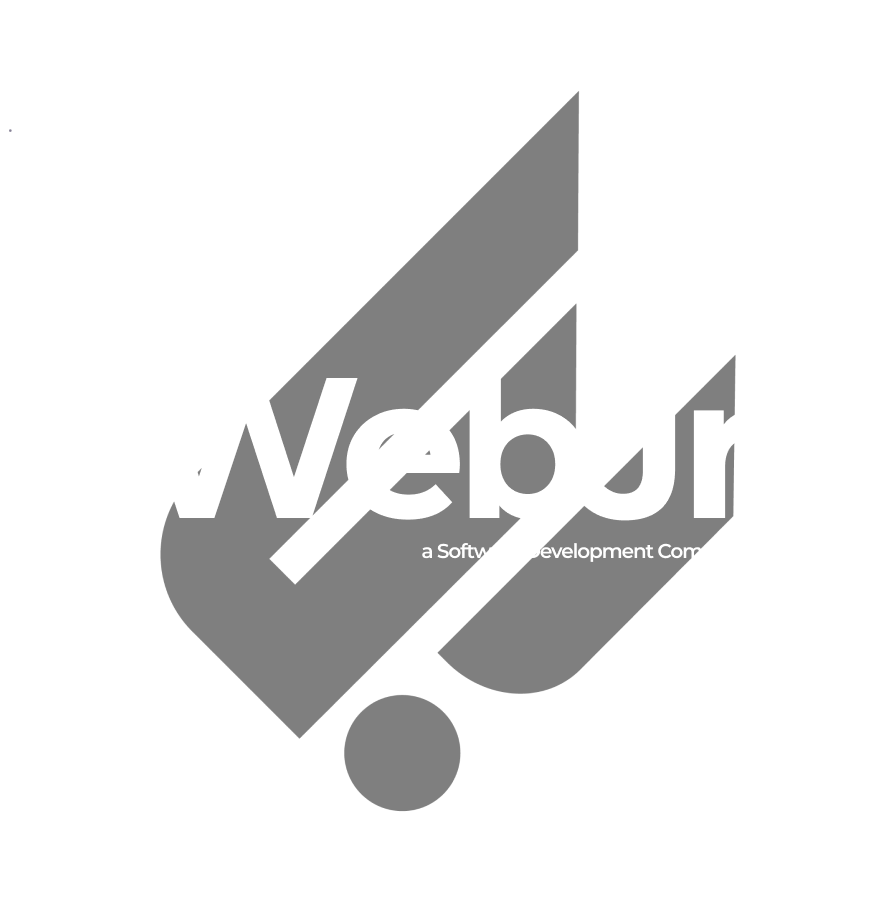
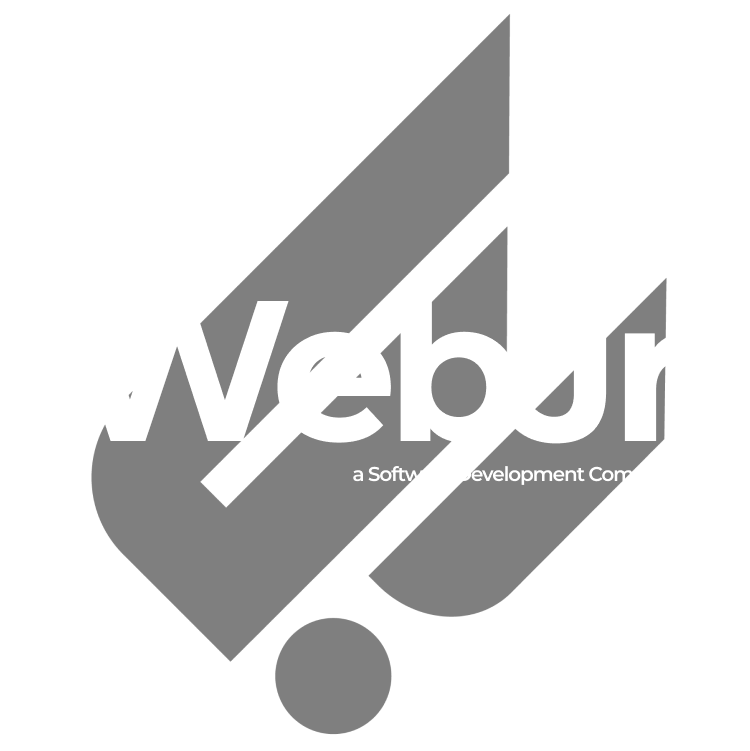
Add files via upload

diff --git a/webjr.html b/webjr.html
@@ -85,16 +85,16 @@
         <div class="">
 
           
-          <div class="loader_nav  lg:absolute lg:left-48">
-            <span>WebJr</span>
-            <span>WebJr</span>
+          <div class="loader_nav  lg:absolute lg:left-48 ">
+            <span class="lg:text-5xl text-3xl">WebJr</span>
+            <span class="lg:text-5xl text-3xl">WebJr</span>
           </div>
         
 
         </div>
 
 
-        <button data-collapse-toggle="navbar-default " type="button"
+        <button data-collapse-toggle="navbar-default" type="button"
           class="inline-flex items-center p-2 ml-3 text-sm  md:hidden text-white focus:outline-none"
           aria-controls="navbar-default" aria-expanded="false">
           <span class="sr-only">Open main menu</span>
@@ -106,50 +106,87 @@
           </svg>
         </button>
         <div class="hidden w-full text-center bg-gray-900 md:bg-transparent md:block md:w-auto" id="navbar-default">
-          <ul
-            class="flex flex-col p-4 mt-4   md:flex-row md:space-x-8 md:mt-0 md:text-sm md:font-medium md:border-0   ">
+          <ul 
+            class="flex flex-col p-4    md:flex-row md:space-x-8 md:mt-0 md:text-sm md:font-medium md:border-0   ">
             <li>
               <a href="#" class="block py-2 pr-4 pl-3 text-white rounded md:bg-transparent  md:p-0 dark:text-white"
-                aria-current="page">< Home /></a>
+                aria-current="page">< Project /></a>
             </li>
             <li>
               <a href="#"
-                class="block py-2 pr-4 pl-3 text-white md:hover:bg-transparent md:border-0 md:hover:text-blue-700 md:p-0 dark:text-gray-400 md:dark:hover:text-white dark:hover:bg-gray-700 dark:hover:text-white md:dark:hover:bg-transparent">< About /></a>
+                class="block py-2 pr-4 pl-3 text-white md:hover:bg-transparent md:border-0 md:hover:text-blue-700 md:p-0 dark:text-gray-400 md:dark:hover:text-white dark:hover:bg-gray-700 dark:hover:text-white md:dark:hover:bg-transparent">< Contact /></a>
             </li>
-            <li>
-              <a href="#"
-                class="block py-2 pr-4 pl-3 text-white md:hover:bg-transparent md:border-0 md:hover:text-blue-700 md:p-0 dark:text-gray-400 md:dark:hover:text-white dark:hover:bg-gray-700 dark:hover:text-white md:dark:hover:bg-transparent">< Services /></a>
-            </li>
-            <li>
-              <a href="#"
-                class="block py-2 pr-4 pl-3 text-white md:hover:bg-transparent md:border-0 md:hover:text-blue-700 md:p-0 dark:text-gray-400 md:dark:hover:text-white dark:hover:bg-gray-700 dark:hover:text-white md:dark:hover:bg-transparent">< Pricing /></a>
-            </li>
+            
 
           </ul>
         </div>
       </div>
     </nav>
 
-    <div class=" imgcenter relative max-w-sm sm:max-w-md md:max-w-lg lg:max-w-xl xl:max-w-2xl mx-auto mb-10">
-      <img src="static/home.png" alt="home" class="w-100 h-100">
+    <div class=" imgcenter relative flex justify-center  mb-10 ">      
+
+
+      <div class="">
+        <img src="static/home.png" alt="home" class="w-[550px] h-100">
+        <section aria-label="sidebar_icons" class="flex flex-col gap-1 absolute bottom-0  left-4 ">
+          <div class="md:w-6 w-4 ">
+            <a href="">
+              <svg viewBox="0 0 60 60" xmlns="http://www.w3.org/2000/svg"><g fill="none" fill-rule="evenodd"><path d="M30 60c16.569 0 30-13.431 30-30C60 13.431 46.569 0 30 0 13.431 0 0 13.431 0 30c0 16.569 13.431 30 30 30Z" fill="#ffffff" class="fill-000000"></path><path d="M21.883 43.823V25.524h-5.656v18.3h5.656Zm0-24.785c-.034-1.637-1.125-2.884-2.898-2.884-1.773 0-2.932 1.247-2.932 2.884 0 1.602 1.125 2.885 2.864 2.885h.034c1.807 0 2.932-1.283 2.932-2.885Zm9.227 24.785V33.397c0-.558.04-1.116.204-1.513.449-1.116 1.47-2.27 3.184-2.27 2.246 0 3.654 1.274 3.654 3.783v10.426h5.694V33.118c0-5.734-3.061-8.402-7.144-8.402-3.348 0-4.817 1.871-5.633 3.145l.04-2.447h-5.684c.082 1.752 0 18.41 0 18.41h5.685Z" fill="#000000" class="fill-ffffff"></path></g></svg>
+            </a>
+        
+          </div>
+          <div class="md:w-6 w-4">
+        
+            <a href="">
+              <svg version="1.0" viewBox="0 0 32 32" xml:space="preserve" xmlns="http://www.w3.org/2000/svg"><g fill="#ffffff" class="fill-111111"><path d="M12.914 15.272s3.027-.23 3.027-3.852c0-3.619-2.053-5.403-5.191-5.403L0 6v20h11s5.5.174 5.5-6c0 0 .404-4.728-3.586-4.728zM4 9h5.5s1.882.031 1.882 2.471C11.382 14 9.5 14 9.5 14H4V9zm6 14H4v-6h6s3 .031 3 3-2.568 3-3 3zM25 11c-7.513 0-7.5 7.5-7.5 7.5S17 26 25 26c0 0 7 0 7-6h-4s0 3-3 3c0 0-3 0-3-4h10c0-2 0-8-7-8zm-3 6s-.066-3 3-3c3.065 0 3 3 3 3h-6zM21 8h8v2h-8z"></path></g></svg>
+            </a>
+          </div>
+          <div class="md:w-6 w-4">
+            <a href="">
+              <svg xmlns="http://www.w3.org/2000/svg" viewBox="0 0 56.7 56.7" xml:space="preserve"><path d="M28.2 16.7c-7 0-12.8 5.7-12.8 12.8s5.7 12.8 12.8 12.8S41 36.5 41 29.5s-5.8-12.8-12.8-12.8zm0 21c-4.5 0-8.2-3.7-8.2-8.2s3.7-8.2 8.2-8.2 8.2 3.7 8.2 8.2-3.7 8.2-8.2 8.2z" fill="#ffffff" class="fill-000000"></path><circle cx="41.5" cy="16.4" r="2.9" fill="#ffffff" class="fill-000000"></circle><path d="M49 8.9c-2.6-2.7-6.3-4.1-10.5-4.1H17.9c-8.7 0-14.5 5.8-14.5 14.5v20.5c0 4.3 1.4 8 4.2 10.7 2.7 2.6 6.3 3.9 10.4 3.9h20.4c4.3 0 7.9-1.4 10.5-3.9 2.7-2.6 4.1-6.3 4.1-10.6V19.3c0-4.2-1.4-7.8-4-10.4zm-.4 31c0 3.1-1.1 5.6-2.9 7.3s-4.3 2.6-7.3 2.6H18c-3 0-5.5-.9-7.3-2.6C8.9 45.4 8 42.9 8 39.8V19.3c0-3 .9-5.5 2.7-7.3 1.7-1.7 4.3-2.6 7.3-2.6h20.6c3 0 5.5.9 7.3 2.7 1.7 1.8 2.7 4.3 2.7 7.2v20.6z" fill="#ffffff" class="fill-000000"></path></svg>
+            </a>
+          </div>
+        
+        </section>
+
+        <section aria-label="scroll" class="hidden  text-white text-lg tracking-widest md:flex items-center gap-6 rotate-90 absolute -right-16 bottom-20">
+          <p class="scroll_section">S c r o l l</p>
+          <div class="bg-white w-20 h-[1px]  "></div>
+
+        </section>
+
+
+      </div>
+
+
+
+
     </div>
-    <div class="mt-6">
-      <section class="grid-container mx-auto my-0 px-4 py-2 md:text-xl flex justify-between">
-        <div class="font-bold text-sm lg:text-2xl md:w-1/2 lg:w-1/2 mr-4">If you're a small business, you need a website. That's why we're here.
+    <div class="xl:mt-28 lg:mt-24 md:mt-16  mt-10">
+      <section class="grid-container mx-auto my-0 px-4 py-2 md:text-xl md:flex md:justify-between md:flex-row md:text-left md:gap-0 flex flex-col gap-8 text-center ">
+        <div class="font-bold text-sm lg:text-[25px] lg:leading-[35px] md:w-1/2 lg:w-1/2 md:mr-4">If you're a small business, you need a website. That's why we're here.
           We make it easy for small
           businesses to build their own websites and stay up-to-date on the latest mobile trends.
         </div>
-        <div class="border-b-2 w-52 lg:w-44 font-bold mx-4"></div>
-        <div class="ml-4 text-sm lg:text-xl">Create a website for your small business</div>
+        <div class=" md:block border-b-2 w-52 lg:w-44 font-bold mx-4"></div>
+        <div class="md:ml-4 text-sm lg:text-xl">Create a website for your small business</div>
       </section>
     </div>
-    <div  class="mt-36">
+    <div  class="xl:mt-28 lg:mt-24 md:mt-16 mt-10">
       <img src="static/wave.png" alt="wave">
     </div>
+
+    <div class="xl:mt-28 lg:mt-24 md:mt-16 mt-10 text-xs text-transparent">.</div>
+
+
+   
+    
+
+    
   </div>
 
   <!--  -->
-  <div class="bg-gray-900 min-h-screen flex items-center ">
+  <div class="bg-gray-900  flex items-center ">
 
       <div class="relative px-4 py-16 mx-auto sm:max-w-xl md:max-w-full lg:max-w-screen-xl md:px-24 lg:px-8 lg:py-20 flex flex-col gap-8">
         <div class="text-center">

diff --git a/style.css b/style.css
@@ -25,10 +25,10 @@
     .bgcolor {
         background-color: #121962;
         width: 100%;
-        height: 1400px;
+        
       }
       /* webjr centering */
-      /* .imgcenter {
+      /* .center {
         position: relative;
         top: -50px;
         margin: 0 auto;
@@ -116,11 +116,9 @@
   .loader_nav span {
     font-family: montserrat;
     font-weight: 500;
-    
     position: absolute;
     color: #fff;
     transform: translate(-50%, -50%);
-    font-size: 50px;
     letter-spacing: 5px;
   }
   
@@ -148,4 +146,7 @@
        51% 62%, 67% 50%, 84% 45%, 100% 46%, 100% 100%, 0% 100%);
     }
   }
+
+
+
   /*  */
